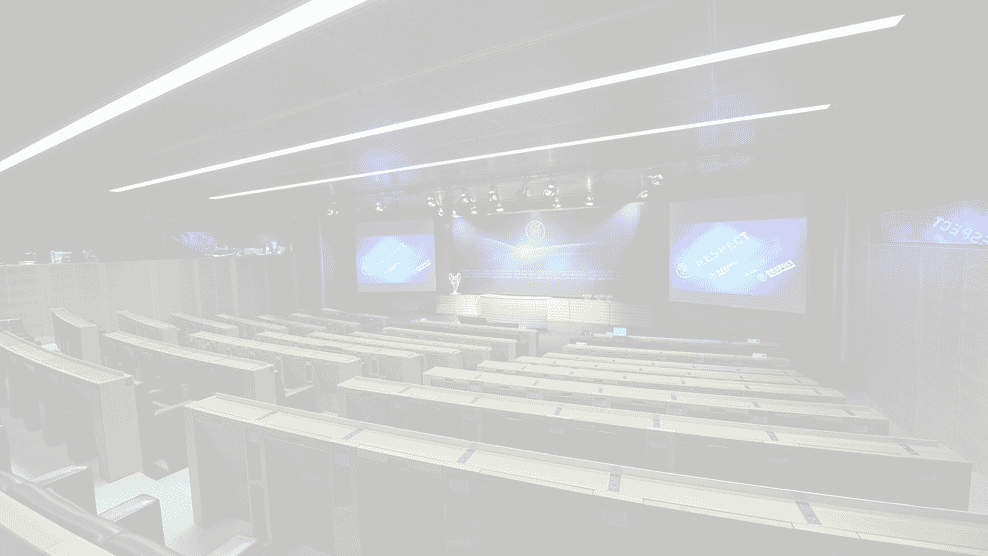
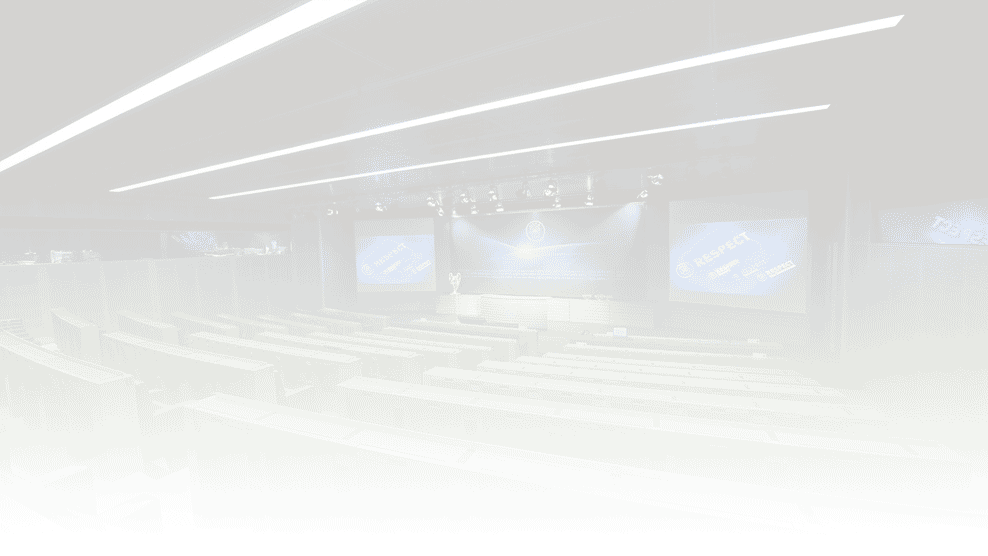
add backgrounds

diff --git a/app/css/main.css b/app/css/main.css
@@ -17,21 +17,18 @@ body {
   font-weight: bold; }
 
 .groupsArea {
-  margin-top: 2em; }
+  margin-top: 2em;
+  background-color: rgba(255, 255, 255, 0.7); }
 
 .potsArea {
-  background: url("../img/pots.jpg");
-  background-repeat: no-repeat;
-  background-size: cover;
-  background-position: 0em -16em;
-  min-height: 17em; }
+  background-color: rgba(85, 120, 171, 0.3); }
 
 li.team {
   font-size: smaller;
   padding: 0.1em 0em; }
 
 li.team img {
-  padding: 0em 0.5em; }
+  padding: 0em 0.5em 0 0; }
 
 .teamName {
   height: 2.2em; }

diff --git a/app/sass/main.sass b/app/sass/main.sass
@@ -19,20 +19,17 @@ body
 
 .groupsArea
   margin-top: 2em
+  background-color: rgba(255, 255, 255, 0.7)
 
 .potsArea
-  background: url('../img/pots.jpg')
-  background-repeat: no-repeat
-  background-size: cover
-  background-position: 0em -16em
-  min-height: 17em
+  background-color: rgba(85, 120, 171, 0.3)
 
 li.team
   font-size: smaller
   padding: 0.1em 0em
 
 li.team img
-  padding: 0em 0.5em
+  padding: 0em 0.5em 0 0
 
 .teamName
   height: 2.2em
